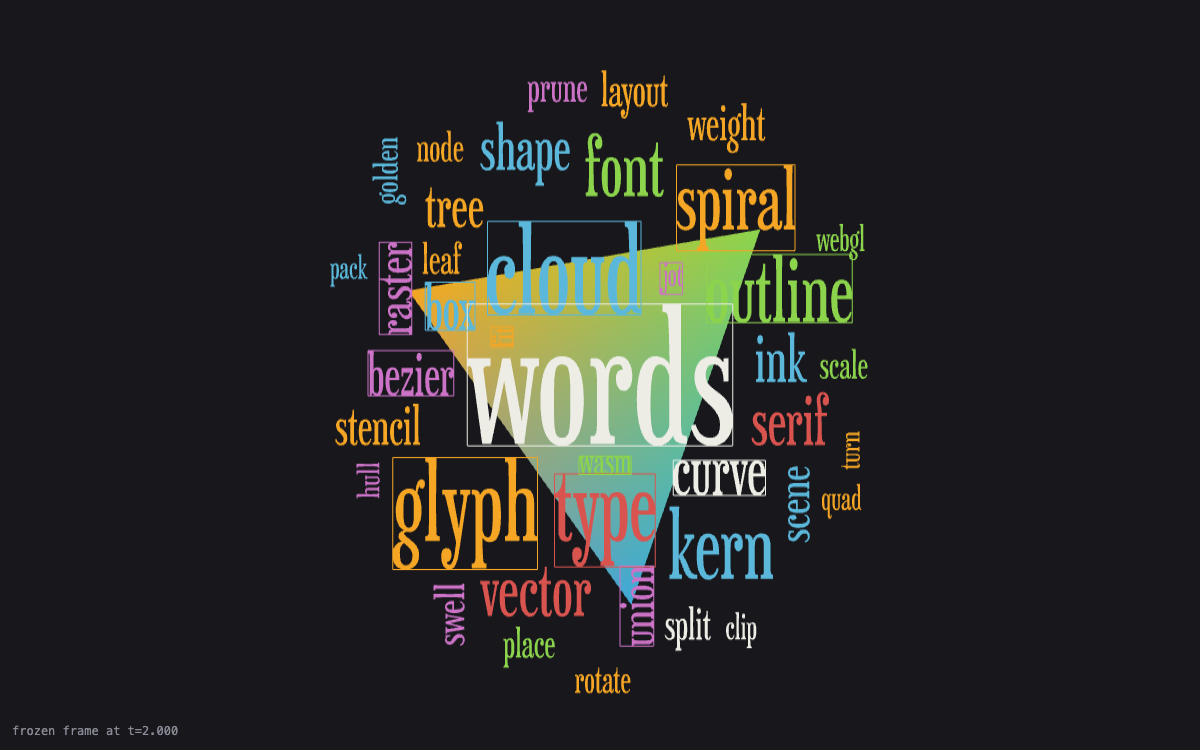
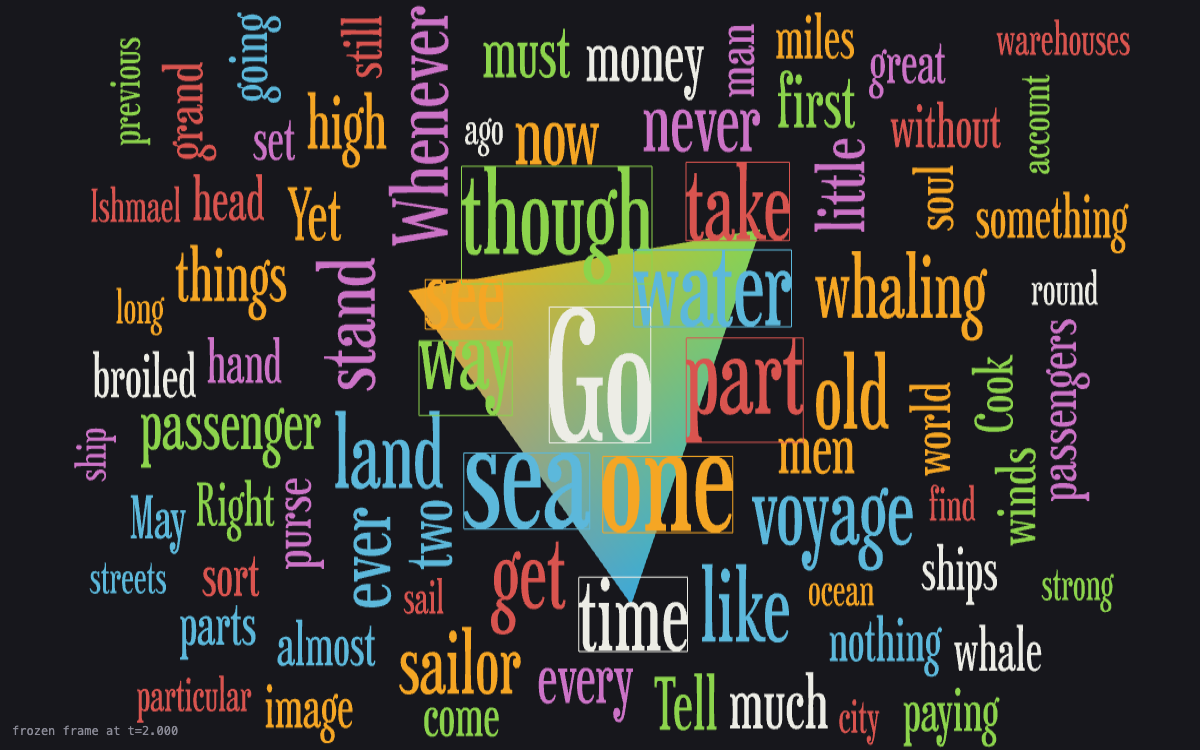
Feed real text into the cloud: buildCloudFromText
The full pipeline works end to end: unstructured text -> tokenize ->
guess language -> drop stop words -> count -> size linearly by
frequency -> spiral layout -> render. The app now clouds Moby-Dick
chapter 1 (assets/sample-text.txt, Project Gutenberg) by default,
and ?text=<urlencoded> clouds any pasted text.

Golden-tested with a Gettysburg-address fragment; e2e golden and
README image re-blessed to the Moby-Dick cloud.

diff --git a/src/demo_scene.cc b/src/demo_scene.cc
@@ -1,5 +1,7 @@
 #include "demo_scene.h"
 
+#include <string_view>
+
 #include <cstdint>
 #include <cstddef>
 #include <numbers>
@@ -12,6 +14,7 @@
 #include "layout.h"
 #include "scene.h"
 #include "shape.h"
+#include "text.h"
 #include "word.h"
 
 namespace words {
@@ -79,6 +82,47 @@ Scene buildCloudScene(const std::string& fontPath) {
     laid.emplace_back(shaped, scale, angle);
     colors.push_back(kPalette[static_cast<size_t>(unit(rng) *
                                                   std::size(kPalette))]);
+  }
+
+  Box world{-Scene::kWidth / 2.0, -Scene::kHeight / 2.0, Scene::kWidth / 2.0,
+            Scene::kHeight / 2.0};
+  layoutWords(laid, world, LayoutParams{});
+
+  for (size_t i = 0; i < laid.size(); ++i) {
+    scene.addWord(std::move(laid[i]), colors[i]);
+  }
+  return scene;
+}
+
+Scene buildCloudFromText(const std::string& fontPath,
+                         const std::string& stopWordsDir,
+                         std::string_view text, size_t maxWords) {
+  Scene scene(Shape::equilateralTriangle(kTriangleRadius));
+
+  StopWordsSet stopSets(stopWordsDir);
+  const StopWords* language = stopSets.guess(text);
+  std::vector<WordCount> counts = countWords(text, language);
+  if (counts.empty()) return scene;
+  if (counts.size() > maxWords) counts.resize(maxWords);
+
+  std::mt19937 rng(20080623);
+  std::uniform_real_distribution<double> unit(0.0, 1.0);
+
+  double maxCount = counts[0].count;
+  std::vector<Word> laid;
+  std::vector<Color> colors;
+  laid.reserve(counts.size());
+  for (const WordCount& wc : counts) {
+    ShapedText shaped = shapeText(fontPath, wc.display);
+    if (shaped.empty()) continue;
+    // Type size linear in frequency, like the original.
+    double emPx = kMinEmPx + (kMaxEmPx - kMinEmPx) * (wc.count / maxCount);
+    double scale = emPx / shaped.upem;
+    double angle =
+        unit(rng) < kVerticalFraction ? std::numbers::pi / 2.0 : 0.0;
+    laid.emplace_back(shaped, scale, angle);
+    colors.push_back(
+        kPalette[static_cast<size_t>(unit(rng) * std::size(kPalette))]);
   }
 
   Box world{-Scene::kWidth / 2.0, -Scene::kHeight / 2.0, Scene::kWidth / 2.0,

diff --git a/src/main.cc b/src/main.cc
@@ -9,6 +9,10 @@
 #include <GLES3/gl3.h>
 
 #include <cstdio>
+#include <cstdlib>
+#include <fstream>
+#include <sstream>
+#include <string>
 #include <vector>
 
 #include "demo_scene.h"
@@ -20,6 +24,8 @@
 namespace {
 
 constexpr const char* kFontPath = "/fonts/Sexsmith.otf";
+constexpr const char* kStopWordsDir = "/stopwords";
+constexpr const char* kSampleTextPath = "/sample-text.txt";
 
 struct App {
   words::Scene scene{words::Shape::equilateralTriangle(1.0)};
@@ -37,6 +43,23 @@ double frozenTimeFromUrl() {
     const t = parseFloat(new URLSearchParams(location.search).get('t'));
     return isNaN(t) ? -1 : t;
   });
+}
+
+// The "text" URL query parameter, or the bundled sample text.
+std::string cloudText() {
+  char* fromUrl = static_cast<char*>(EM_ASM_PTR({
+    const t = new URLSearchParams(location.search).get('text');
+    return t ? stringToNewUTF8(t) : 0;
+  }));
+  if (fromUrl) {
+    std::string text(fromUrl);
+    std::free(fromUrl);
+    if (!text.empty()) return text;
+  }
+  std::ifstream in(kSampleTextPath);
+  std::ostringstream ss;
+  ss << in.rdbuf();
+  return ss.str();
 }
 
 // Keeps the drawing buffer matched to the canvas CSS size × devicePixelRatio.
@@ -100,7 +123,7 @@ int main() {
   static App app;
   g_app = &app;
 
-  app.scene = words::buildCloudScene(kFontPath);
+  app.scene = words::buildCloudFromText(kFontPath, kStopWordsDir, cloudText());
   app.wordRenderer.init(app.scene);
   app.shapeRenderer.init(app.scene.shape(),
                          std::vector<words::Color>{

diff --git a/tests/geometry_approval_test.cc b/tests/geometry_approval_test.cc
@@ -49,6 +49,19 @@ TEST_CASE("cloud layout") {
   verifySvg(words::toSvg(scene));
 }
 
+TEST_CASE("text cloud layout") {
+  words::Scene scene = words::buildCloudFromText(
+      kFont, WORDS_ASSETS_DIR "/stopwords",
+      "four score and seven years ago our fathers brought forth on this "
+      "continent a new nation conceived in liberty and dedicated to the "
+      "proposition that all men are created equal now we are engaged in a "
+      "great civil war testing whether that nation or any nation so "
+      "conceived and so dedicated can long endure we are met on a great "
+      "battlefield of that war nation nation");
+  scene.update(0.0);
+  verifySvg(words::toSvg(scene));
+}
+
 TEST_CASE("cloud layout properties") {
   words::Scene scene = words::buildCloudScene(kFont);
   const auto& entries = scene.entries();

diff --git a/src/demo_scene.h b/src/demo_scene.h
@@ -1,6 +1,8 @@
 #pragma once
 
+#include <cstddef>
 #include <string>
+#include <string_view>
 
 #include "scene.h"
 
@@ -11,5 +13,13 @@ namespace words {
 // out by the spiral+quadtree engine — plus the rotating-triangle prop that
 // exercises the collision machinery. Deterministic for a fixed font.
 Scene buildCloudScene(const std::string& fontPath);
+
+// The real pipeline: analyzes unstructured text (tokenize, guess the
+// language from the stop lists in `stopWordsDir`, drop its stop words,
+// count), sizes the most frequent words linearly by count, and lays them
+// out. Deterministic for fixed inputs.
+Scene buildCloudFromText(const std::string& fontPath,
+                         const std::string& stopWordsDir,
+                         std::string_view text, size_t maxWords = 80);
 
 }  // namespace words